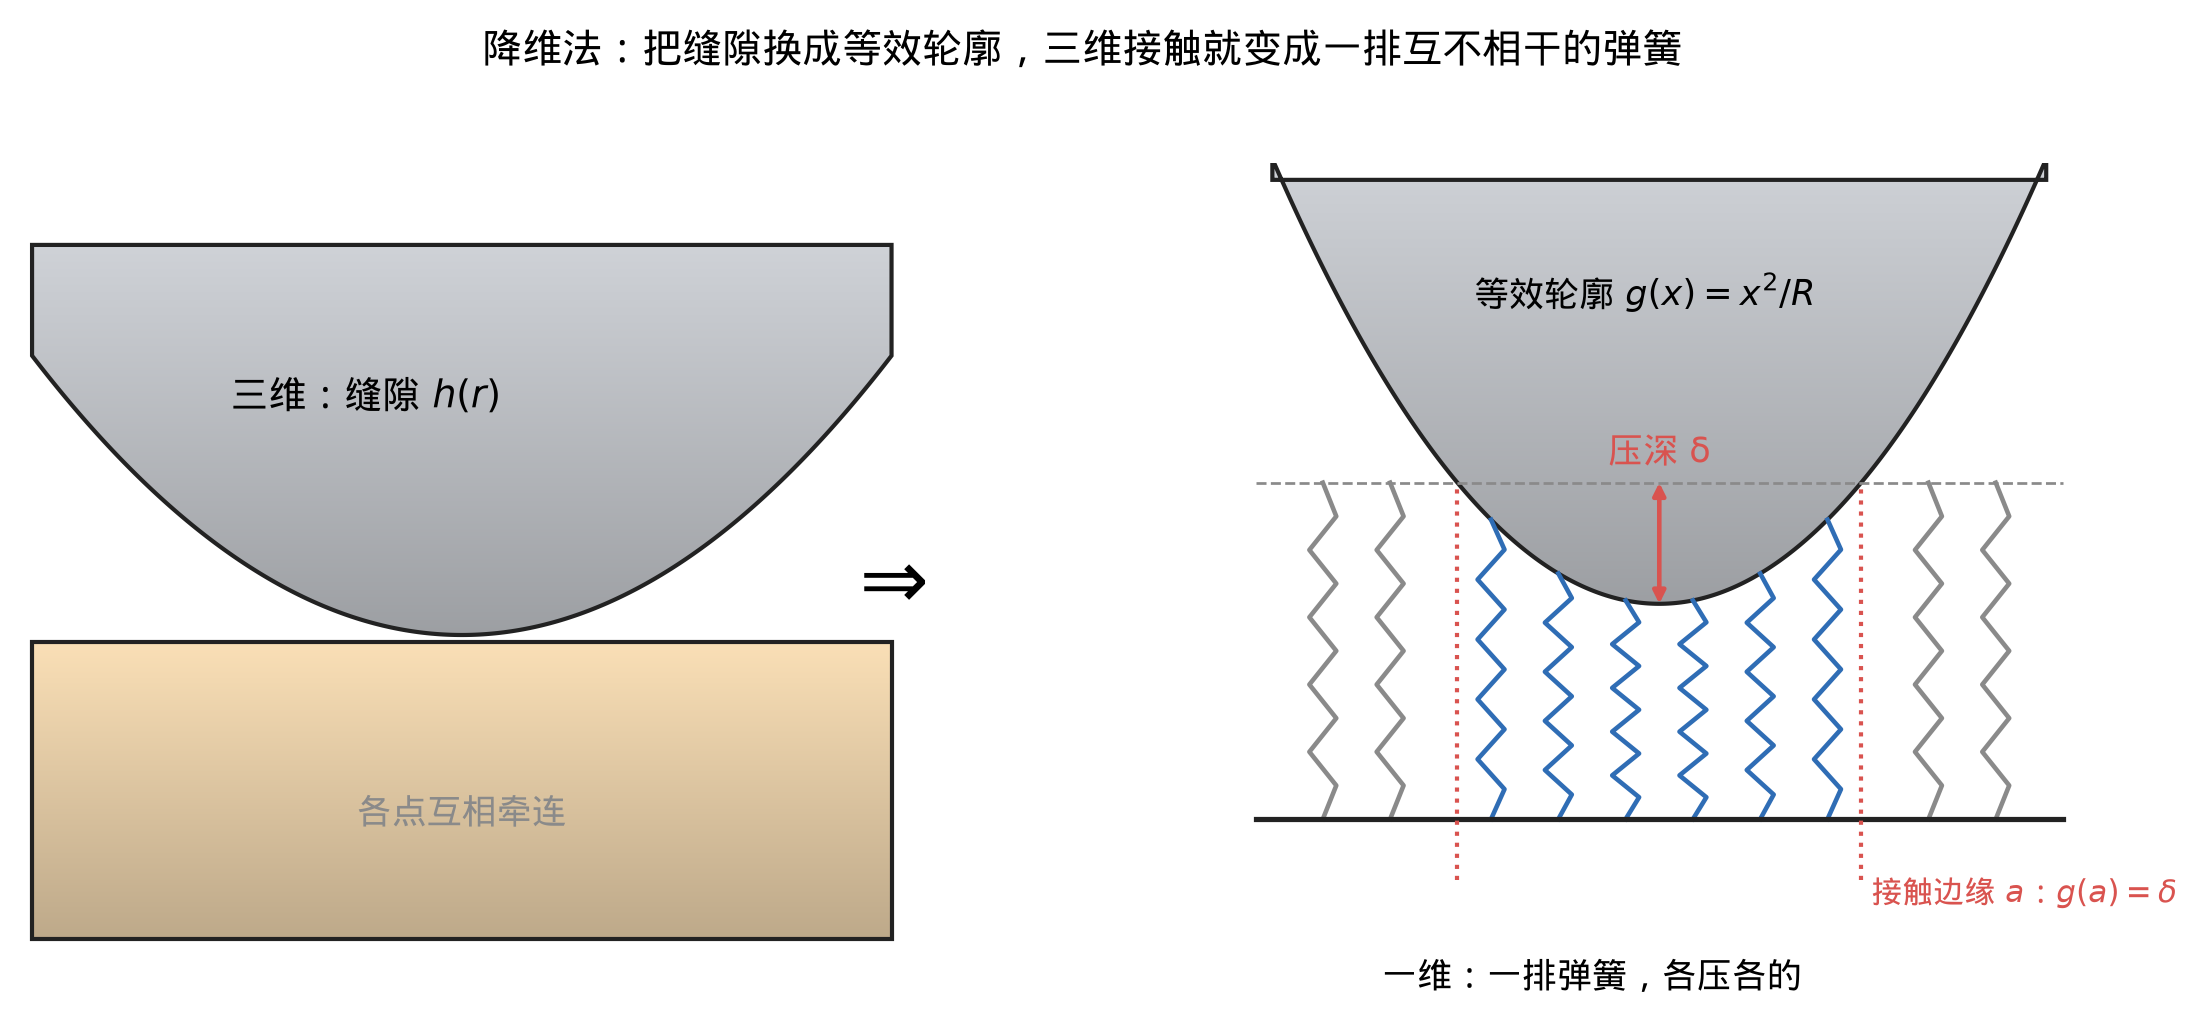
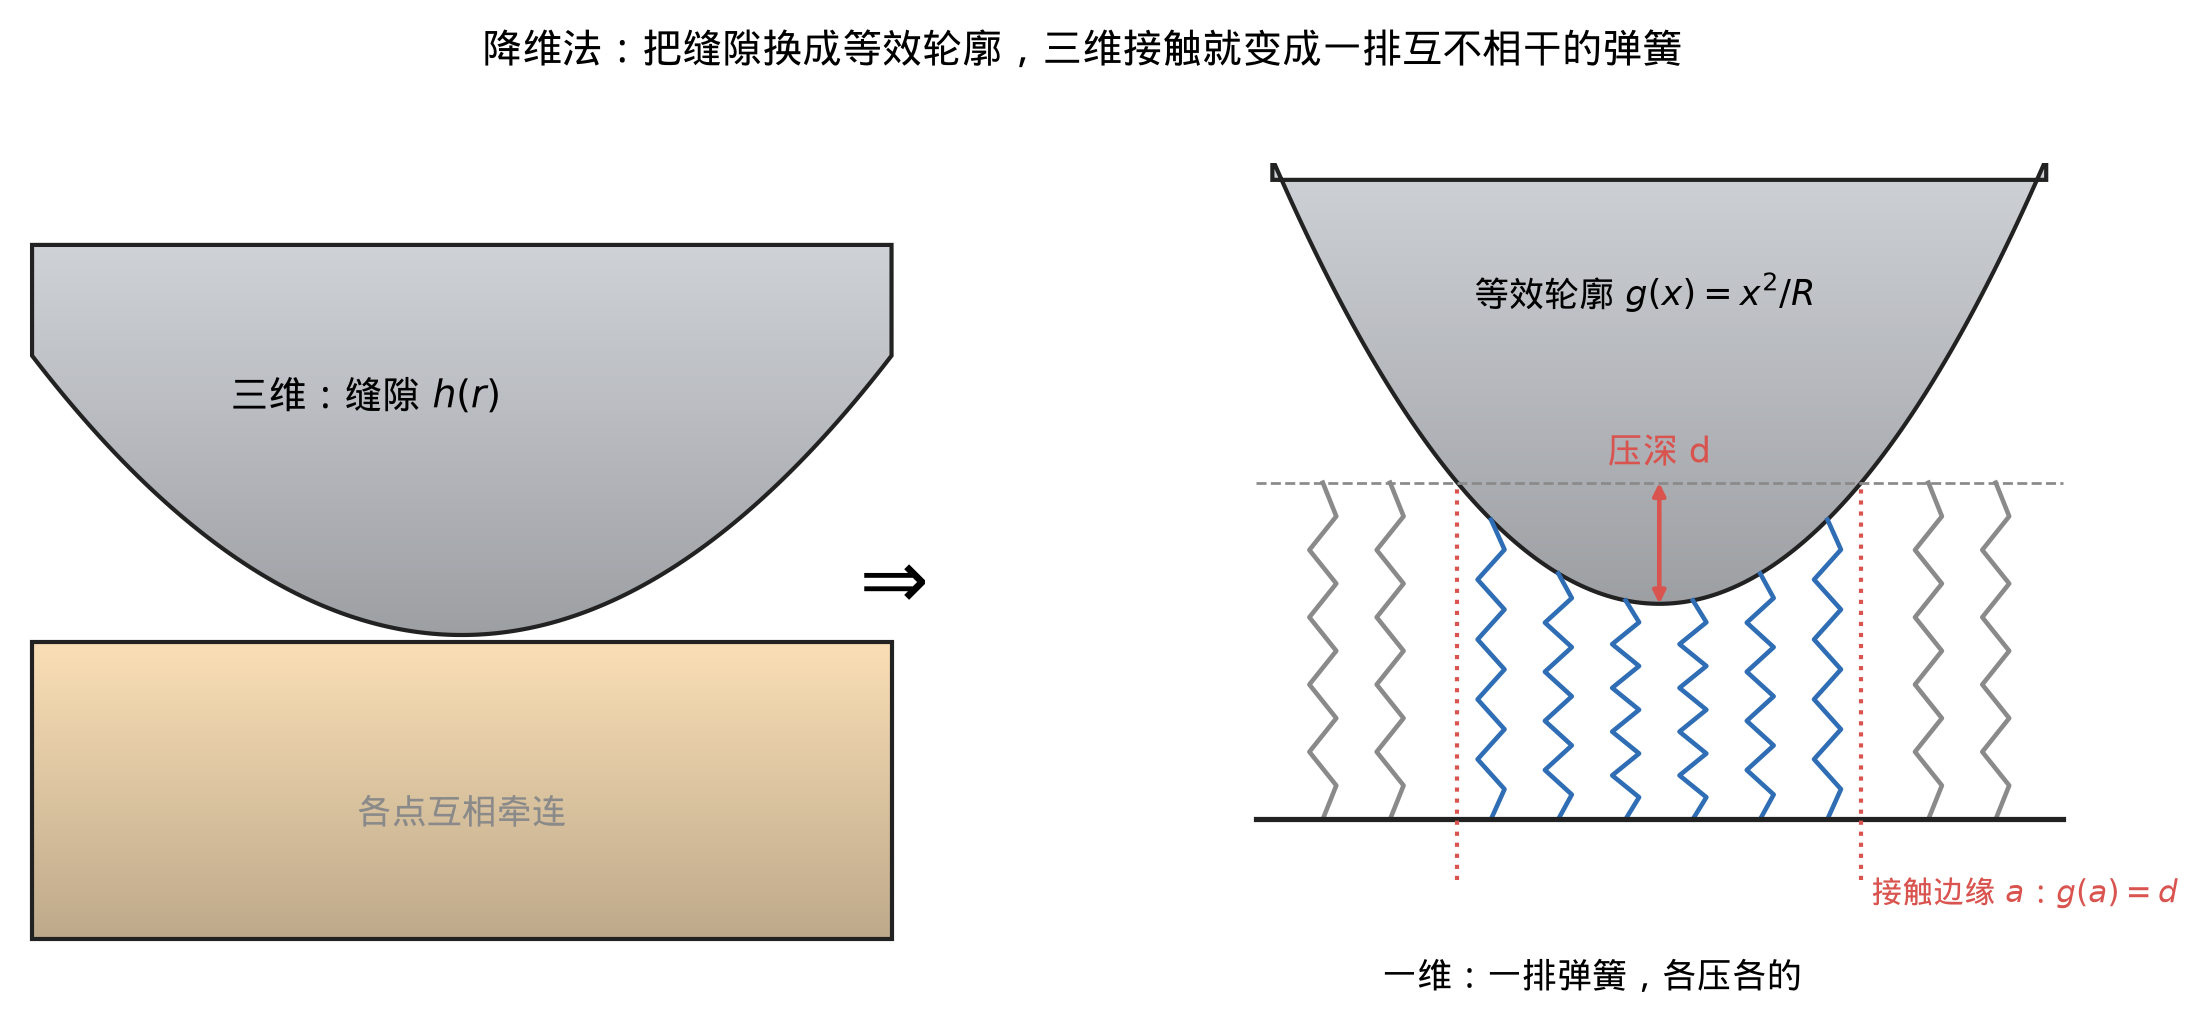
restore week3_4 page to 3e5c6cd (notes kept at c13089b)

diff --git a/week3_4.html b/week3_4.html
@@ -305,7 +305,7 @@ html.annot-on #annot-capture { display: block; }
 <h3 id="w2-1" class="numbered">2.1 两个软体等价于刚体压软平面</h3>
 
 <p><strong>前提。</strong> 接触区比物体小得多，接触处两侧都可看成无限大的弹性体（半空间）；变形很小；无摩擦。</p>
-<figure style="margin:12px 0"><img src="assets/images/w34_Contact_sphere-plane.jpg" width="576" height="404" style="width:599px;max-width:100%;height:auto" alt="这张图展示了弹性球压在弹性平面上时两者怎样变形。F 是把球往下压的力，上方水平虚线是平面原来的表面，弯下去的粗实线是压下去以后的表面，底部那条水平细线只用来量压深，球底部的虚线弧是球没变形时的轮廓，a 是接触半径，d 是压深。通过对比水平虚线和弯下去的粗实线，以及球底的虚实两条弧线，可以看出球和平面都被压扁了一点，而且接触圈以外的平面也被平滑地带着往下沉。图中 d 即压深 δ。" loading="lazy"><figcaption class="small">这张图展示了弹性球压在弹性平面上时两者怎样变形。F 是把球往下压的力，上方水平虚线是平面原来的表面，弯下去的粗实线是压下去以后的表面，底部那条水平细线只用来量压深，球底部的虚线弧是球没变形时的轮廓，a 是接触半径，d 是压深。通过对比水平虚线和弯下去的粗实线，以及球底的虚实两条弧线，可以看出球和平面都被压扁了一点，而且接触圈以外的平面也被平滑地带着往下沉。图中 d 即压深 δ。</figcaption></figure>
+<figure style="margin:12px 0"><img src="assets/images/w34_Contact_sphere-plane.jpg" width="576" height="404" style="width:599px;max-width:100%;height:auto" alt="这张图展示了弹性球压在弹性平面上时两者怎样变形。F 是把球往下压的力，上方水平虚线是平面原来的表面，弯下去的粗实线是压下去以后的表面，底部那条水平细线只用来量压深，球底部的虚线弧是球没变形时的轮廓，a 是接触半径，d 是压深。通过对比水平虚线和弯下去的粗实线，以及球底的虚实两条弧线，可以看出球和平面都被压扁了一点，而且接触圈以外的平面也被平滑地带着往下沉。" loading="lazy"><figcaption class="small">这张图展示了弹性球压在弹性平面上时两者怎样变形。F 是把球往下压的力，上方水平虚线是平面原来的表面，弯下去的粗实线是压下去以后的表面，底部那条水平细线只用来量压深，球底部的虚线弧是球没变形时的轮廓，a 是接触半径，d 是压深。通过对比水平虚线和弯下去的粗实线，以及球底的虚实两条弧线，可以看出球和平面都被压扁了一点，而且接触圈以外的平面也被平滑地带着往下沉。</figcaption></figure>
 <p><strong>要证的事。</strong> 已知两物体的材料、表面形状和压深，求接触面上压力满足的方程，并说明它只依赖哪几个量。</p>
 <p><strong>四个出发点。</strong></p>
 <p>(1) 两侧受同一个压力。设 \(\mathbf x\) 是接触面上的位置，\(p(\mathbf x)\) 是那里单位面积上的压力。由作用与反作用，A 压 B 和 B 压 A 的压力相同，都记作 \(p(\mathbf x)\)。</p>
@@ -339,8 +339,8 @@ html.annot-on #annot-capture { display: block; }
 <p>其中 \(h&#x27;\) 是缝隙的斜率。则三维问题的压深、力、能量与「一排互不相干的弹簧压在轮廓 \(g\) 上」完全一致：第 \(x\) 根弹簧被压缩 \(\delta-g(x)\)，每单位长度刚度为 \(E^*\)，压缩量为零的那根是接触边缘：</p>
 <p>\[\color{#c0392b}{\delta=g(a),\qquad F=2E^*\int_0^a\big(\delta-g(x)\big)dx,\qquad U_0=E^*\int_0^a\big(\delta-g(x)\big)^2dx}.\]</p>
 <p>三维中各点相互牵连的效果全部被 \(h\to g\) 这一换算吸收，换算后弹簧可以各压各的。</p>
-<figure style="margin:12px 0"><img src="assets/images/w34_fig04_mdr_springs.png" width="2205" height="1021" style="width:907px;max-width:100%;height:auto" alt="这张图展示了降维法怎样把三维接触换成一排一维弹簧。左边灰色刚体压橙色平面，两者之间的缝隙是 h(r)，平面里各点的变形互相牵连。右边把缝隙换成灰色的等效轮廓 g(x) = x²/R（R 是球的半径），压进一排弹簧，灰色虚线是弹簧没压时的顶端，红色箭头是压深 δ。通过对比两条红色点线之间被压短的蓝色弹簧和点线外不受力的灰色弹簧，可以看出红色点线的位置就是接触边缘 a，满足 g(a) = δ。每根弹簧只管自己那一格，所以三维里各点互相牵连的问题变成了一维的逐根相加。" loading="lazy"><figcaption class="small">这张图展示了降维法怎样把三维接触换成一排一维弹簧。左边灰色刚体压橙色平面，两者之间的缝隙是 h(r)，平面里各点的变形互相牵连。右边把缝隙换成灰色的等效轮廓 g(x) = x²/R（R 是球的半径），压进一排弹簧，灰色虚线是弹簧没压时的顶端，红色箭头是压深 δ。通过对比两条红色点线之间被压短的蓝色弹簧和点线外不受力的灰色弹簧，可以看出红色点线的位置就是接触边缘 a，满足 g(a) = δ。每根弹簧只管自己那一格，所以三维里各点互相牵连的问题变成了一维的逐根相加。</figcaption></figure>
-<figure style="margin:12px 0"><img src="assets/images/w34_WikipediabilderKap_4.jpg" width="1153" height="409" style="width:1184px;max-width:100%;height:auto" alt="这张图是降维法原作者的示意图。左边是半径 R 的灰色球在力 F 下压进弹性平面，a 是接触半径，d 是压深；箭头右边是换成的一维模型，一个半径 R1 的灰色轮廓在同样的力 F 下压进一排竖直弹簧，R1 = R/2，也就是等效轮廓 g(x) = x²/R。通过对比左右两边标出的 a 和 d，可以看出换成一排各压各的弹簧后，力、接触半径、压深都与三维问题相同，所以能用一维弹簧算三维接触。图中 d 即压深 δ。" loading="lazy"><figcaption class="small">这张图是降维法原作者的示意图。左边是半径 R 的灰色球在力 F 下压进弹性平面，a 是接触半径，d 是压深；箭头右边是换成的一维模型，一个半径 R1 的灰色轮廓在同样的力 F 下压进一排竖直弹簧，R1 = R/2，也就是等效轮廓 g(x) = x²/R。通过对比左右两边标出的 a 和 d，可以看出换成一排各压各的弹簧后，力、接触半径、压深都与三维问题相同，所以能用一维弹簧算三维接触。图中 d 即压深 δ。</figcaption></figure>
+<figure style="margin:12px 0"><img src="assets/images/w34_fig04_mdr_springs.png" width="2207" height="1021" style="width:908px;max-width:100%;height:auto" alt="这张图展示了降维法怎样把三维接触换成一排一维弹簧。左边灰色刚体压橙色平面，两者之间的缝隙是 h(r)，平面里各点的变形互相牵连。右边把缝隙换成灰色的等效轮廓 g(x) = x²/R（R 是球的半径），压进一排弹簧，灰色虚线是弹簧没压时的顶端，红色箭头是压深 d。通过对比两条红色点线之间被压短的蓝色弹簧和点线外不受力的灰色弹簧，可以看出红色点线的位置就是接触边缘 a，满足 g(a) = d。每根弹簧只管自己那一格，所以三维里各点互相牵连的问题变成了一维的逐根相加。" loading="lazy"><figcaption class="small">这张图展示了降维法怎样把三维接触换成一排一维弹簧。左边灰色刚体压橙色平面，两者之间的缝隙是 h(r)，平面里各点的变形互相牵连。右边把缝隙换成灰色的等效轮廓 g(x) = x²/R（R 是球的半径），压进一排弹簧，灰色虚线是弹簧没压时的顶端，红色箭头是压深 d。通过对比两条红色点线之间被压短的蓝色弹簧和点线外不受力的灰色弹簧，可以看出红色点线的位置就是接触边缘 a，满足 g(a) = d。每根弹簧只管自己那一格，所以三维里各点互相牵连的问题变成了一维的逐根相加。</figcaption></figure>
+<figure style="margin:12px 0"><img src="assets/images/w34_WikipediabilderKap_4.jpg" width="1153" height="409" style="width:1184px;max-width:100%;height:auto" alt="这张图是降维法原作者的示意图。左边是半径 R 的灰色球在力 F 下压进弹性平面，a 是接触半径，d 是压深；箭头右边是换成的一维模型，一个半径 R1 的灰色轮廓在同样的力 F 下压进一排竖直弹簧，R1 = R/2，也就是等效轮廓 g(x) = x²/R。通过对比左右两边标出的 a 和 d，可以看出换成一排各压各的弹簧后，力、接触半径、压深都与三维问题相同，所以能用一维弹簧算三维接触。" loading="lazy"><figcaption class="small">这张图是降维法原作者的示意图。左边是半径 R 的灰色球在力 F 下压进弹性平面，a 是接触半径，d 是压深；箭头右边是换成的一维模型，一个半径 R1 的灰色轮廓在同样的力 F 下压进一排竖直弹簧，R1 = R/2，也就是等效轮廓 g(x) = x²/R。通过对比左右两边标出的 a 和 d，可以看出换成一排各压各的弹簧后，力、接触半径、压深都与三维问题相同，所以能用一维弹簧算三维接触。</figcaption></figure>
 <h4>推导</h4>
 <p><strong>第一步：平底的解。</strong> 半径为 \(\tilde a\) 的平底压入深度 \(\delta\) 时，底面下的压强是 Boussinesq 的经典解</p>
 <p>\[p(r)=\frac{E^*\delta}{\pi\sqrt{\tilde a^2-r^2}}\quad(r&lt;\tilde a).\]</p>
@@ -523,7 +523,7 @@ html.annot-on #annot-capture { display: block; }
 <p>为什么与 \(\ell^2/R\) 成正比：看两个典型点，边中点约 \(\ell^2/(8R)\)，面中心约 \(\ell^2/(6R)\)（整面平均也等于 \(\ell^2/(8R)\)）。这两个数来自弦高：一个平面截球面得到半径 \(\rho\) 的截圆，截圆中心处平面比球面凹进的深度，按 2.3 节同样的勾股近似（\(R-\sqrt{R^2-\rho^2}\)，略去高阶项）是</p>
 <p>\[\zeta\approx\frac{\rho^2}{2R}.\]</p>
 <p>（\(\zeta\) 是凹进深度。）边是长 \(\ell\) 的弦，边中点处取 \(\rho=\ell/2\)，得 \(\zeta=\frac{(\ell/2)^2}{2R}=\frac{\ell^2}{8R}\)；正三角形的三个顶点落在半径 \(\rho=\ell/\sqrt3\) 的截圆上（外接圆），面中心处得 \(\zeta=\frac{\ell^2/3}{2R}=\frac{\ell^2}{6R}\)。两者都是 \(\ell^2/R\) 乘一个常数，边长减半时都缩为四分之一。</p>
-<figure style="margin:12px 0"><img src="assets/images/w34_fig11b_facet_sagitta.png" width="1404" height="558" style="width:666px;max-width:100%;height:auto" alt="这张图展示了三角面拼出的球为什么让能量偏低。蓝色弧线是真球面，红色折线是用平的三角面拼出来的球面，红点是三角面的顶点，都落在真球面上。通过对比蓝色弧线和红色折线，以及最下面那块平面中点到弧线之间标着「缩进去 ζ」的小箭头，可以看出每块平面都比真球面往里缩了一点，压头实际压进去的量变少，所以算出的能量偏低。三角面拼得越粗，ζ 越大，能量偏得越多。" loading="lazy"><figcaption class="small">这张图展示了三角面拼出的球为什么让能量偏低。蓝色弧线是真球面，红色折线是用平的三角面拼出来的球面，红点是三角面的顶点，都落在真球面上。通过对比蓝色弧线和红色折线，以及最下面那块平面中点到弧线之间标着「缩进去 ζ」的小箭头，可以看出每块平面都比真球面往里缩了一点，压头实际压进去的量变少，所以算出的能量偏低。三角面拼得越粗，ζ 越大，能量偏得越多。</figcaption></figure>
+<figure style="margin:12px 0"><img src="assets/images/w34_fig11b_facet_sagitta.png" width="1409" height="556" style="width:669px;max-width:100%;height:auto" alt="这张图展示了三角面拼出的球为什么让能量偏低。蓝色弧线是真球面，红色折线是用平的三角面拼出来的球面，红点是三角面的顶点，都落在真球面上。通过对比蓝色弧线和红色折线，以及最下面那块平面中点到弧线之间标着「缩进去 ε」的小箭头，可以看出每块平面都比真球面往里缩了一点，压头实际压进去的量变少，所以算出的能量偏低。三角面拼得越粗，ε 越大，能量偏得越多。" loading="lazy"><figcaption class="small">这张图展示了三角面拼出的球为什么让能量偏低。蓝色弧线是真球面，红色折线是用平的三角面拼出来的球面，红点是三角面的顶点，都落在真球面上。通过对比蓝色弧线和红色折线，以及最下面那块平面中点到弧线之间标着「缩进去 ε」的小箭头，可以看出每块平面都比真球面往里缩了一点，压头实际压进去的量变少，所以算出的能量偏低。三角面拼得越粗，ε 越大，能量偏得越多。</figcaption></figure>
 <h3 id="w3-3" class="numbered">3.3 数据集</h3>
 
 <p>一个<strong>标签</strong>是一个构型（一对物体及其材料）在一个压深下、外推到理想极限后的能量。造一个标签平均要跑约 4 次 IPC 仿真（不同网格、接触阈值和块尺寸；含诊断与旧版本共约 7 次）。</p>
